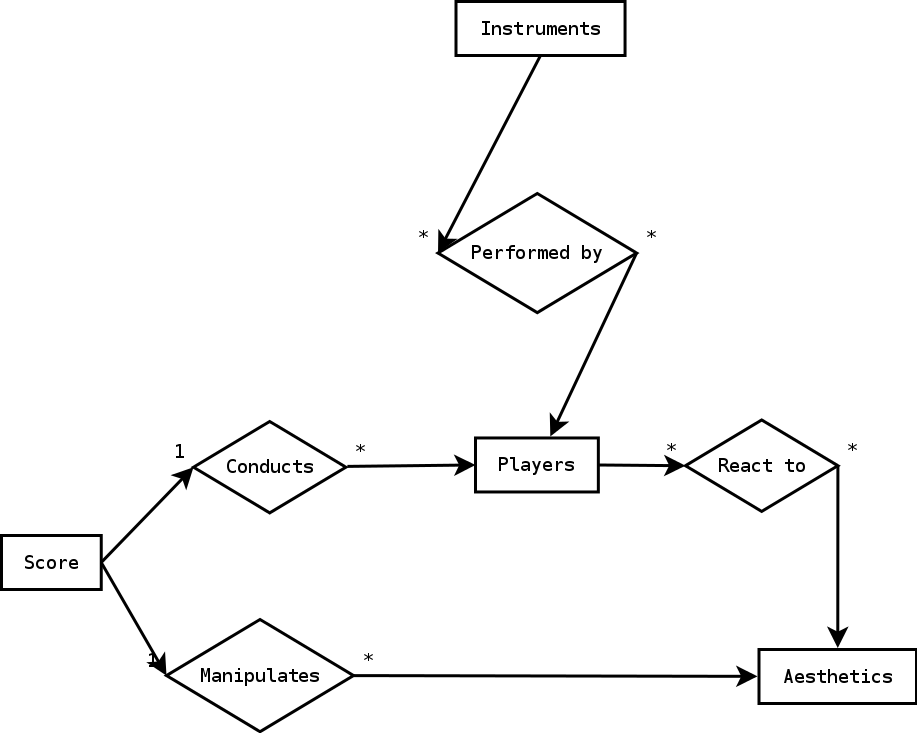
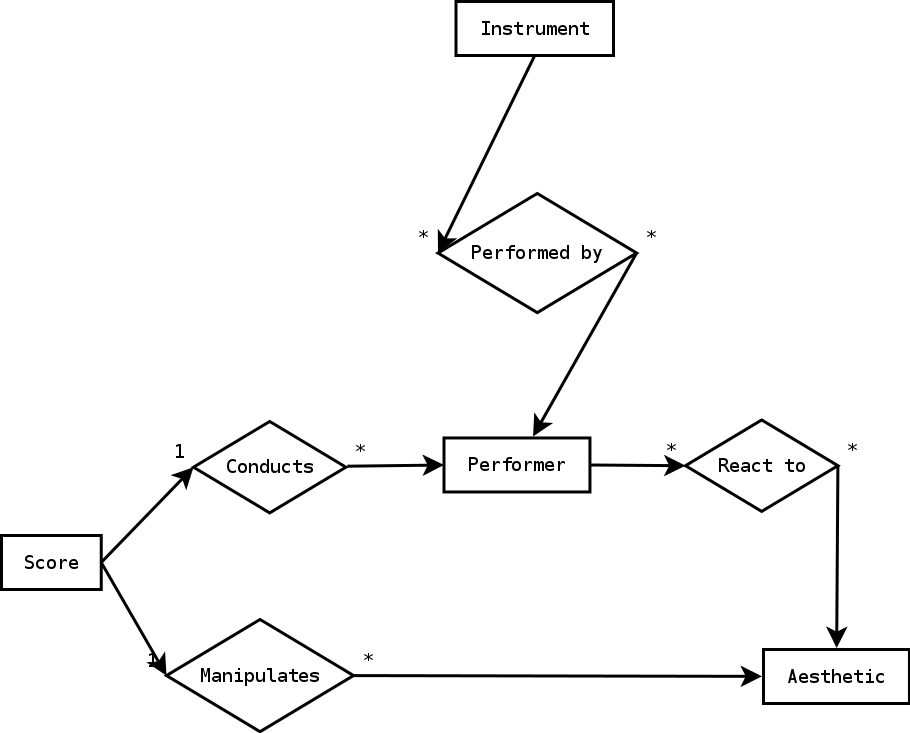
Demo fixes, diagrams, readme

diff --git a/README.md b/README.md
@@ -1,0 +1,116 @@
+# Knack
+
+KnacK is a music composition framework for the [ChucK](http://chuck.cs.princeton.edu/) programming language.  It encourages organization of components in a standard way, enabling easier re-use in later projects.
+
+It was originally developed by Colin Sullivan during the Music 220A course at Stanford's CCRMA.
+
+[github.com/colinsullivan/KnacK](https://github.com/colinsullivan/KnacK)
+
+## Overview
+
+KnacK is divided into 3 main components:
+
+* Instruments
+* Performers
+* Score
+* Aesthetics (high level data input)
+
+### Instruments
+
+An "Instrument" in KnacK is meant to encapsulate all unit generator functionality, and hide away anything that has to do with raw signal processing.  The obvious exception here is if control over a ugen parameter is to be given to the "Performer" of the instrument.
+
+### Performers
+
+A "Performer" in KnacK is the place where performance code is written, which can be anything from a general Arpeggiator which can play any `Instrument` subclass, to a performer of a specific instrument which manipulates specific parameters.
+
+### Score
+
+A "Score" in KnacK is a way to handle the high level transitions and events in a piece.  A `Score` subclass is meant to be instantiated once, and is the entry point for the program.
+
+### Aesthetics
+
+I have spent some time thinking about event handling, and how this can be used to allow `Performer` and `Instrument` instances to react to high-level "aesthetic" data.  The idea here is that the composer can have high-level metrics such as "darkness" or "density", which can be modified in the score directly, and all `Instrument` and `Performer` classes can react accordingly.  I am still in the process of determining the best way to accomplish this using function objects (I am used to functions as first class values), but some code can be found in `lib/aesthetic/` and `examples/MajorToMinor/`.
+
+[https://ccrma.stanford.edu/~colinsul/projects/knack/Architecture_Overview.png](Overview of the entities in KnacK)
+
+## Basic Example
+
+Consider the following simple example (can be found in `examples/otf/`.  We have a `DistortedKick` which simply plays the `DistortedKick.aif` file when the `playNote` method is called:
+
+```java
+/**
+ *  @class      A distorted kick sampler.
+ *  @extends    Instrument
+ **/
+public class DistortedKick extends Instrument {
+    
+    SndBuf clip;
+
+    clip.read("/Users/colin/Documents/Stanford/Courses/220a/hwfinal/examples/otf/DistortedKick.aif");
+    clip.pos(clip.samples());
+    clip => outputsAll;
+
+    fun void playNote(float onVelocity) {
+        clip.pos(0);
+        clip.length() => now;
+    }
+}
+```
+
+Then there is a `BoringKickPerformer` which instantiates a `DistortedKick`, and plays it on each beat.
+
+```java
+/**
+ *  @class      Basic performer that plays a kick drum
+ *  on each beat at a given speed.
+ *  @extends    Performer
+ **/
+public class BoringKickPerformer extends Performer {
+
+    DistortedKick kick;
+    this.instrument(kick);
+
+    /**
+     *  Play kick after each `noteDuration` amount
+     *  of time.
+     **/
+    fun void play() {
+        this.pre_play(); // super
+
+        while(true) {
+            spork ~ kick.playNote(1.0);
+
+            this._noteDuration => now;
+        }
+    }
+}
+```
+
+To combine in a `Movement` of a score, we can instantiate this player, and tell it how frequently to play.
+
+```java
+class OtfDemo extends Score {
+
+    ...
+
+    BoringKickPerformer kickPerformer;
+    kickPerformer.score(this);
+
+    ...
+
+    class BoringIntro extends Score.Movement {
+        fun void play() {
+            this.pre_play();
+            this.score() $ OtfDemo @=> OtfDemo @ score;
+            
+            score.kickPerformer.noteDuration(score.quarterNote);
+            spork ~ score.kickPerformer.play();
+        }
+    }
+    BoringIntro intro;
+    this.add_movement(intro);
+    intro.duration(this.quarterNote*4*2); // Play for 2 bars
+}
+```
+
+Then when an `OtfDemo` object is instantiated, and `play` is called on it, we will hear our beat play for the duration specified.
